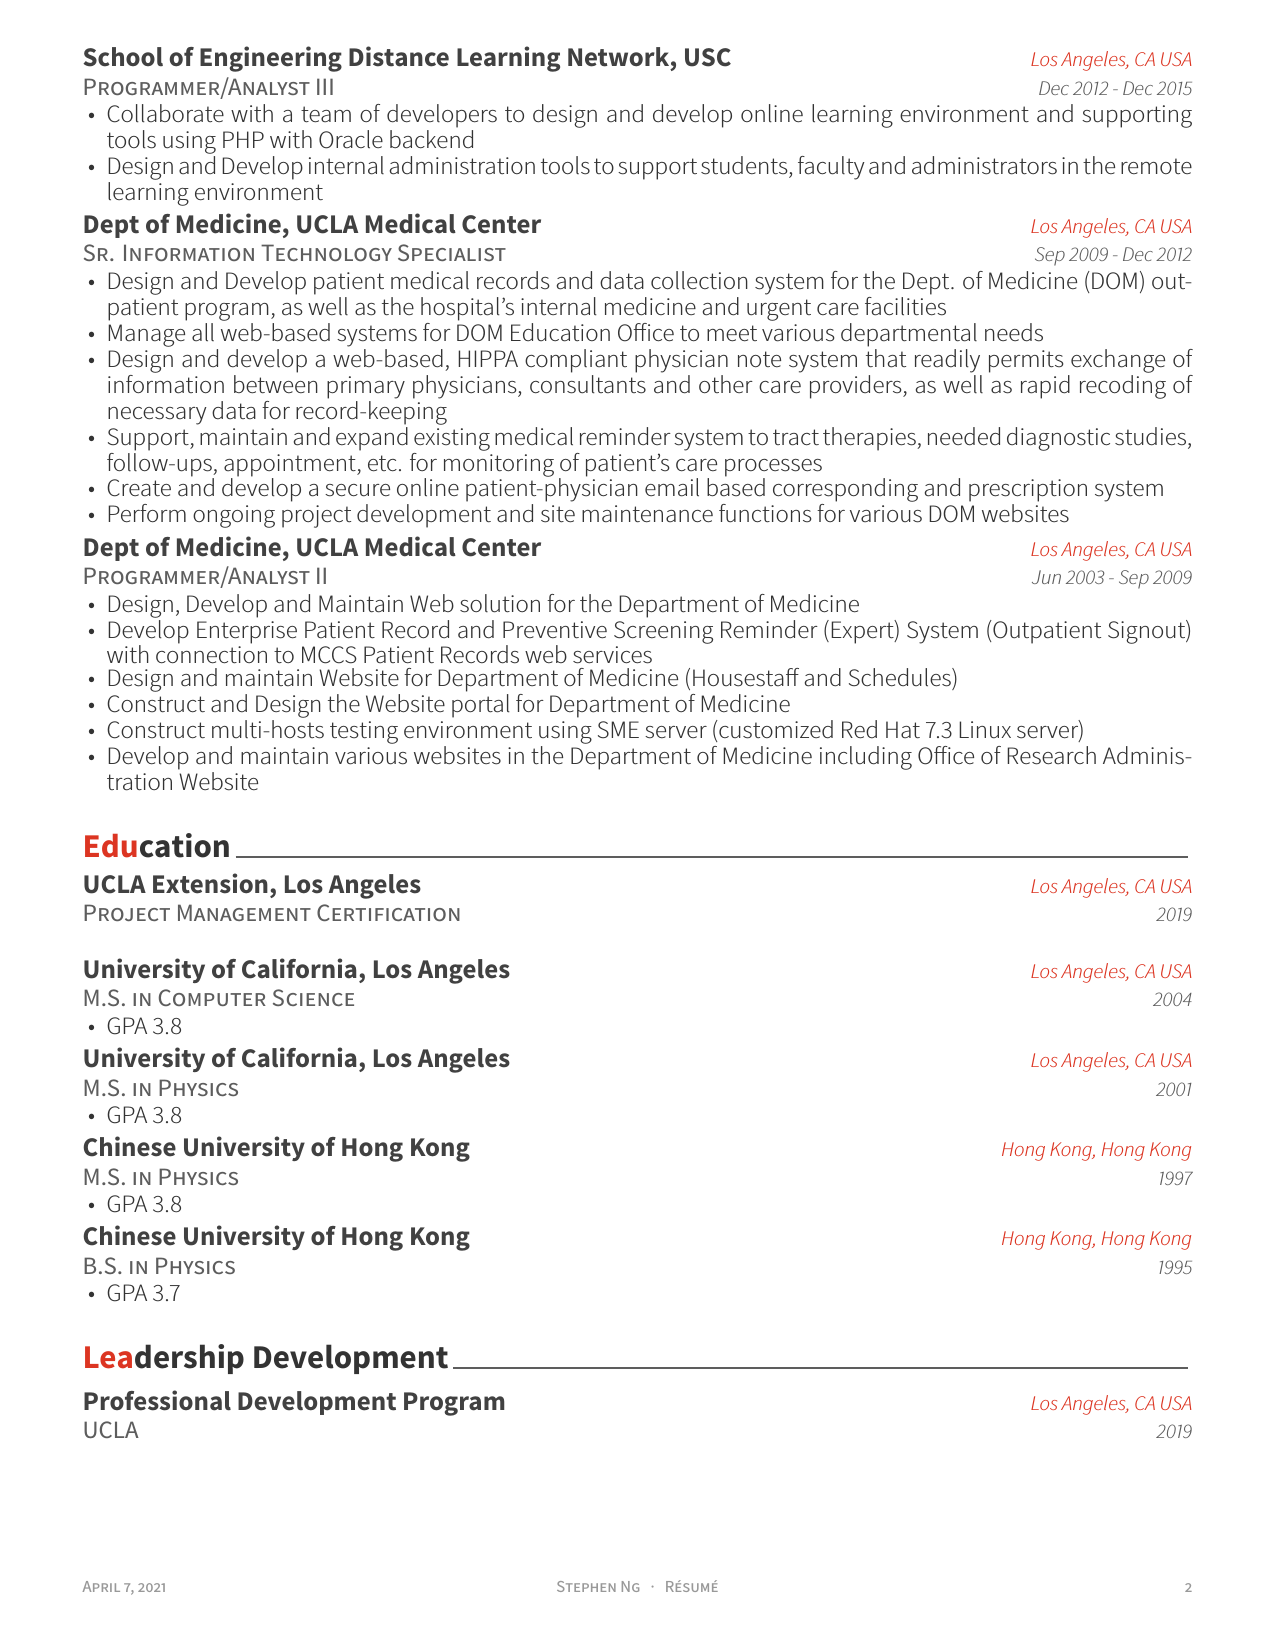
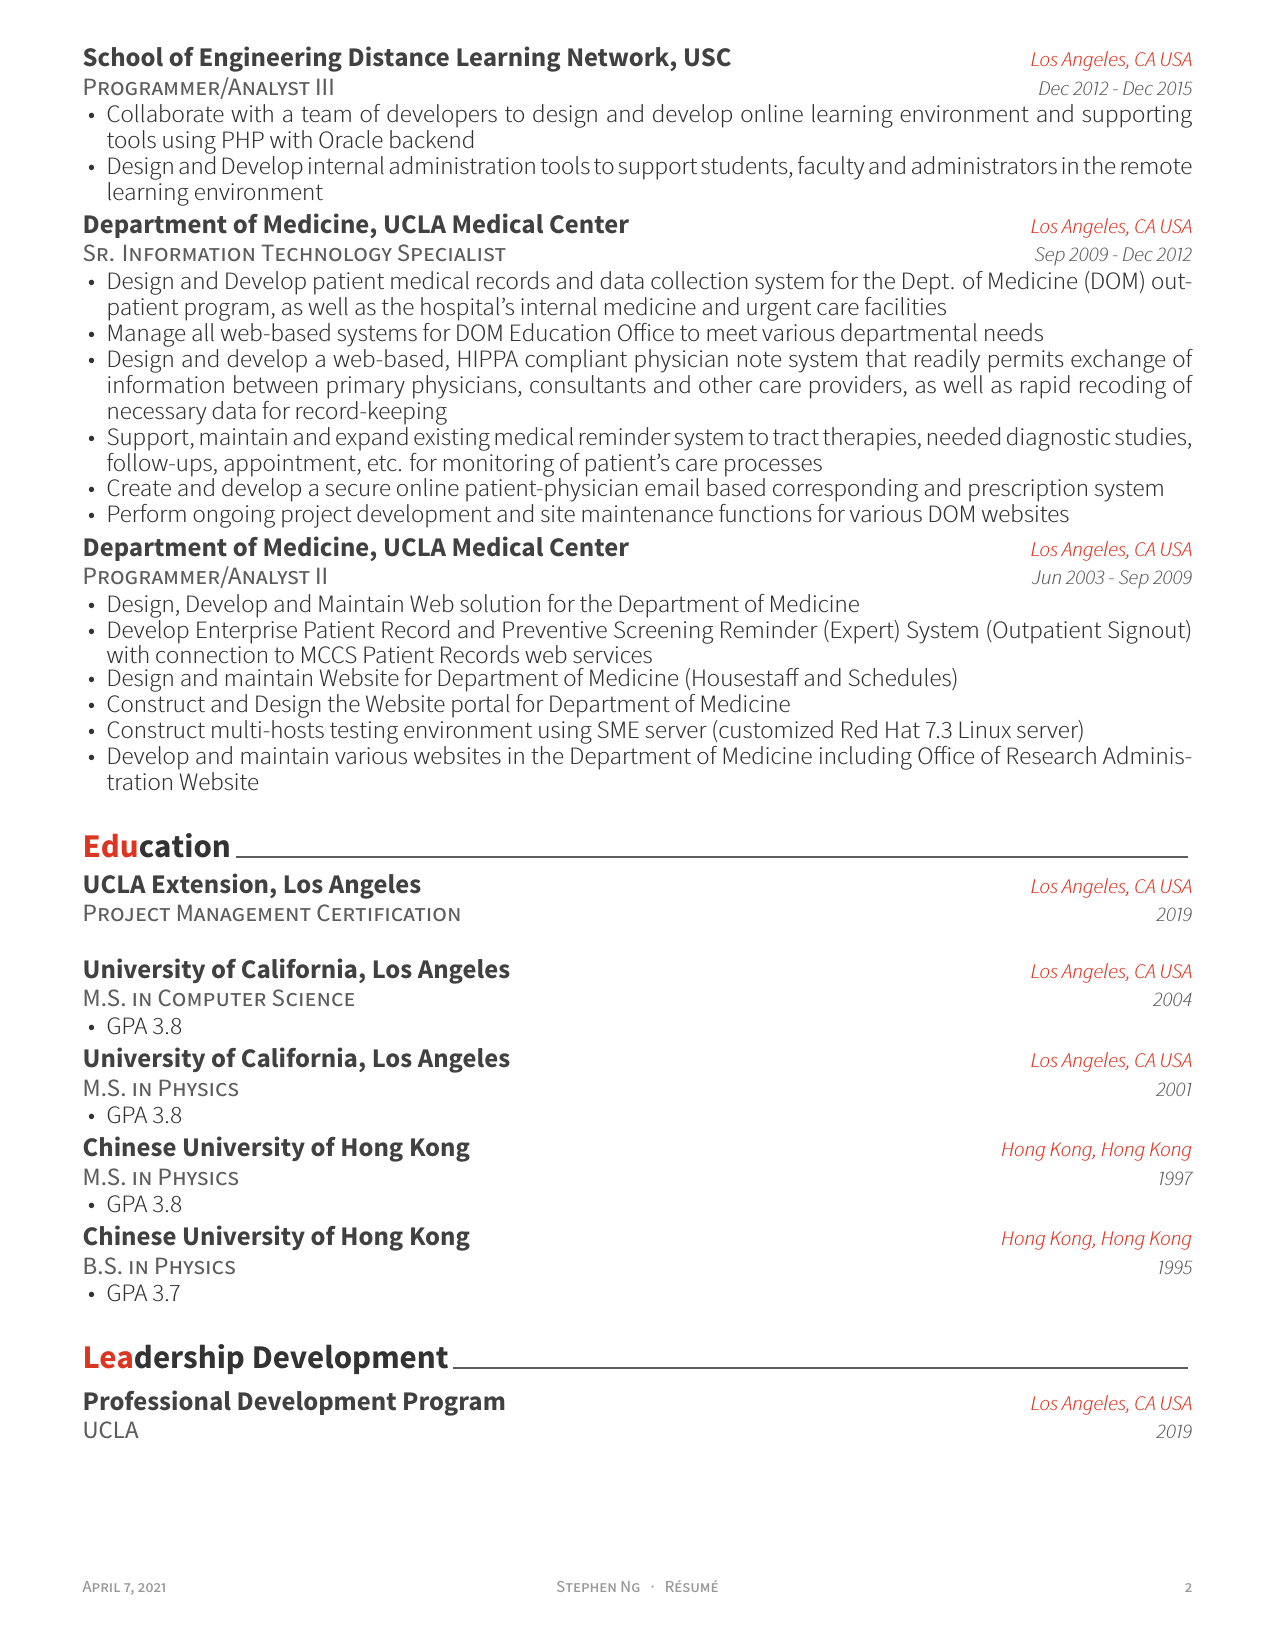
update resume wording

Changed region(s): [[0.0918, 0.3091, 0.4894, 0.34], [0.0918, 0.1236, 0.4894, 0.1545]]

diff --git a/myresume/resume/experience.tex b/myresume/resume/experience.tex
@@ -72,7 +72,7 @@
 
   \cventry
     {Sr. Information Technology Specialist} % Job title
-    {Dept of Medicine, UCLA Medical Center} % Organization
+    {Department of Medicine, UCLA Medical Center} % Organization
     {Los Angeles, CA USA} % Location
     {Sep 2009 - Dec 2012} % Date(s)
     {
@@ -88,7 +88,7 @@
 
  \cventry
     {Programmer/Analyst II} % Job title
-    {Dept of Medicine, UCLA Medical Center} % Organization
+    {Department of Medicine, UCLA Medical Center} % Organization
     {Los Angeles, CA USA} % Location
     {Jun 2003 - Sep 2009} % Date(s)
     {
